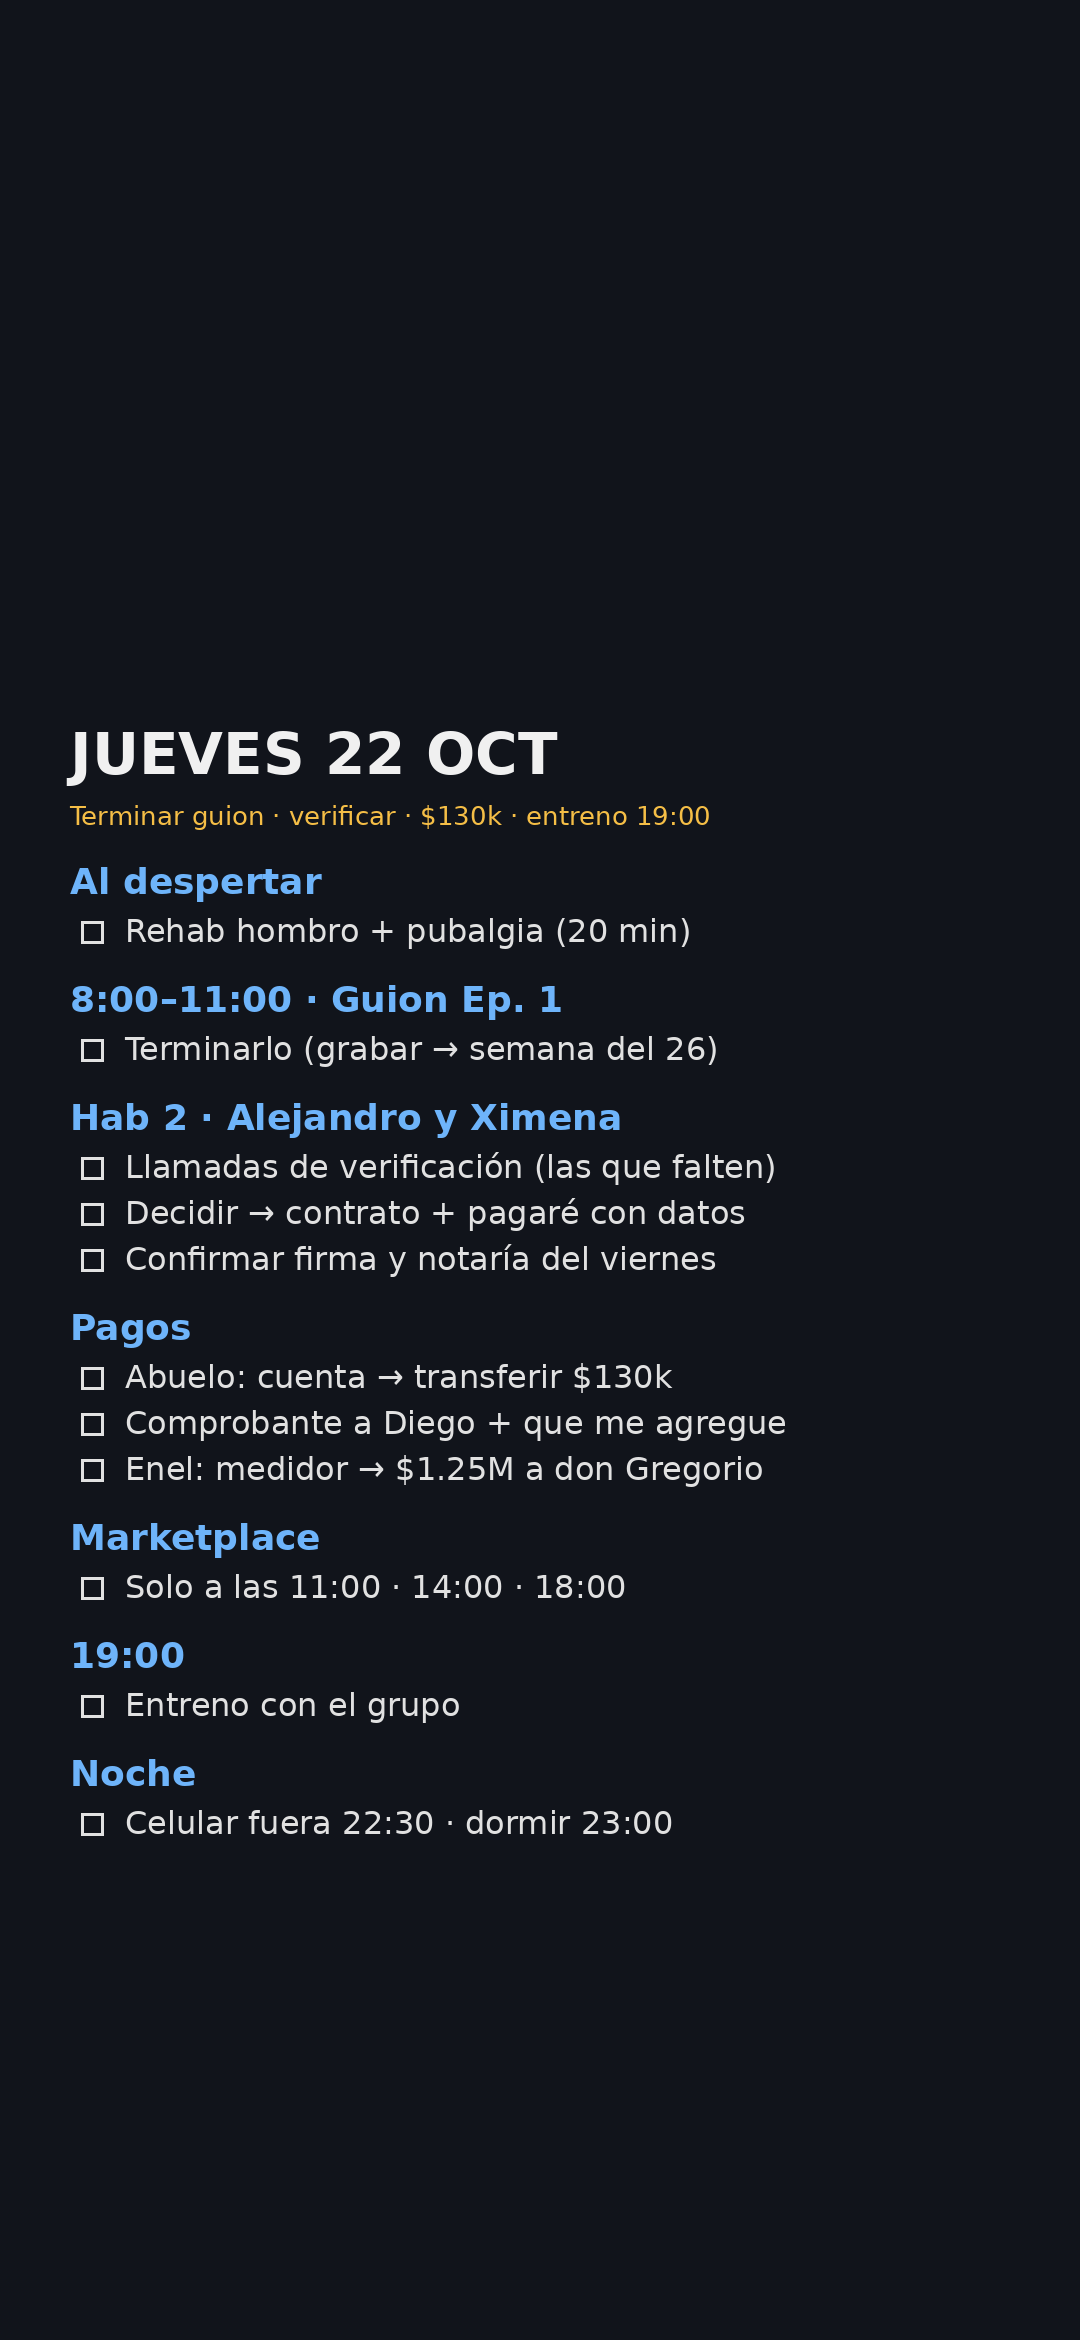
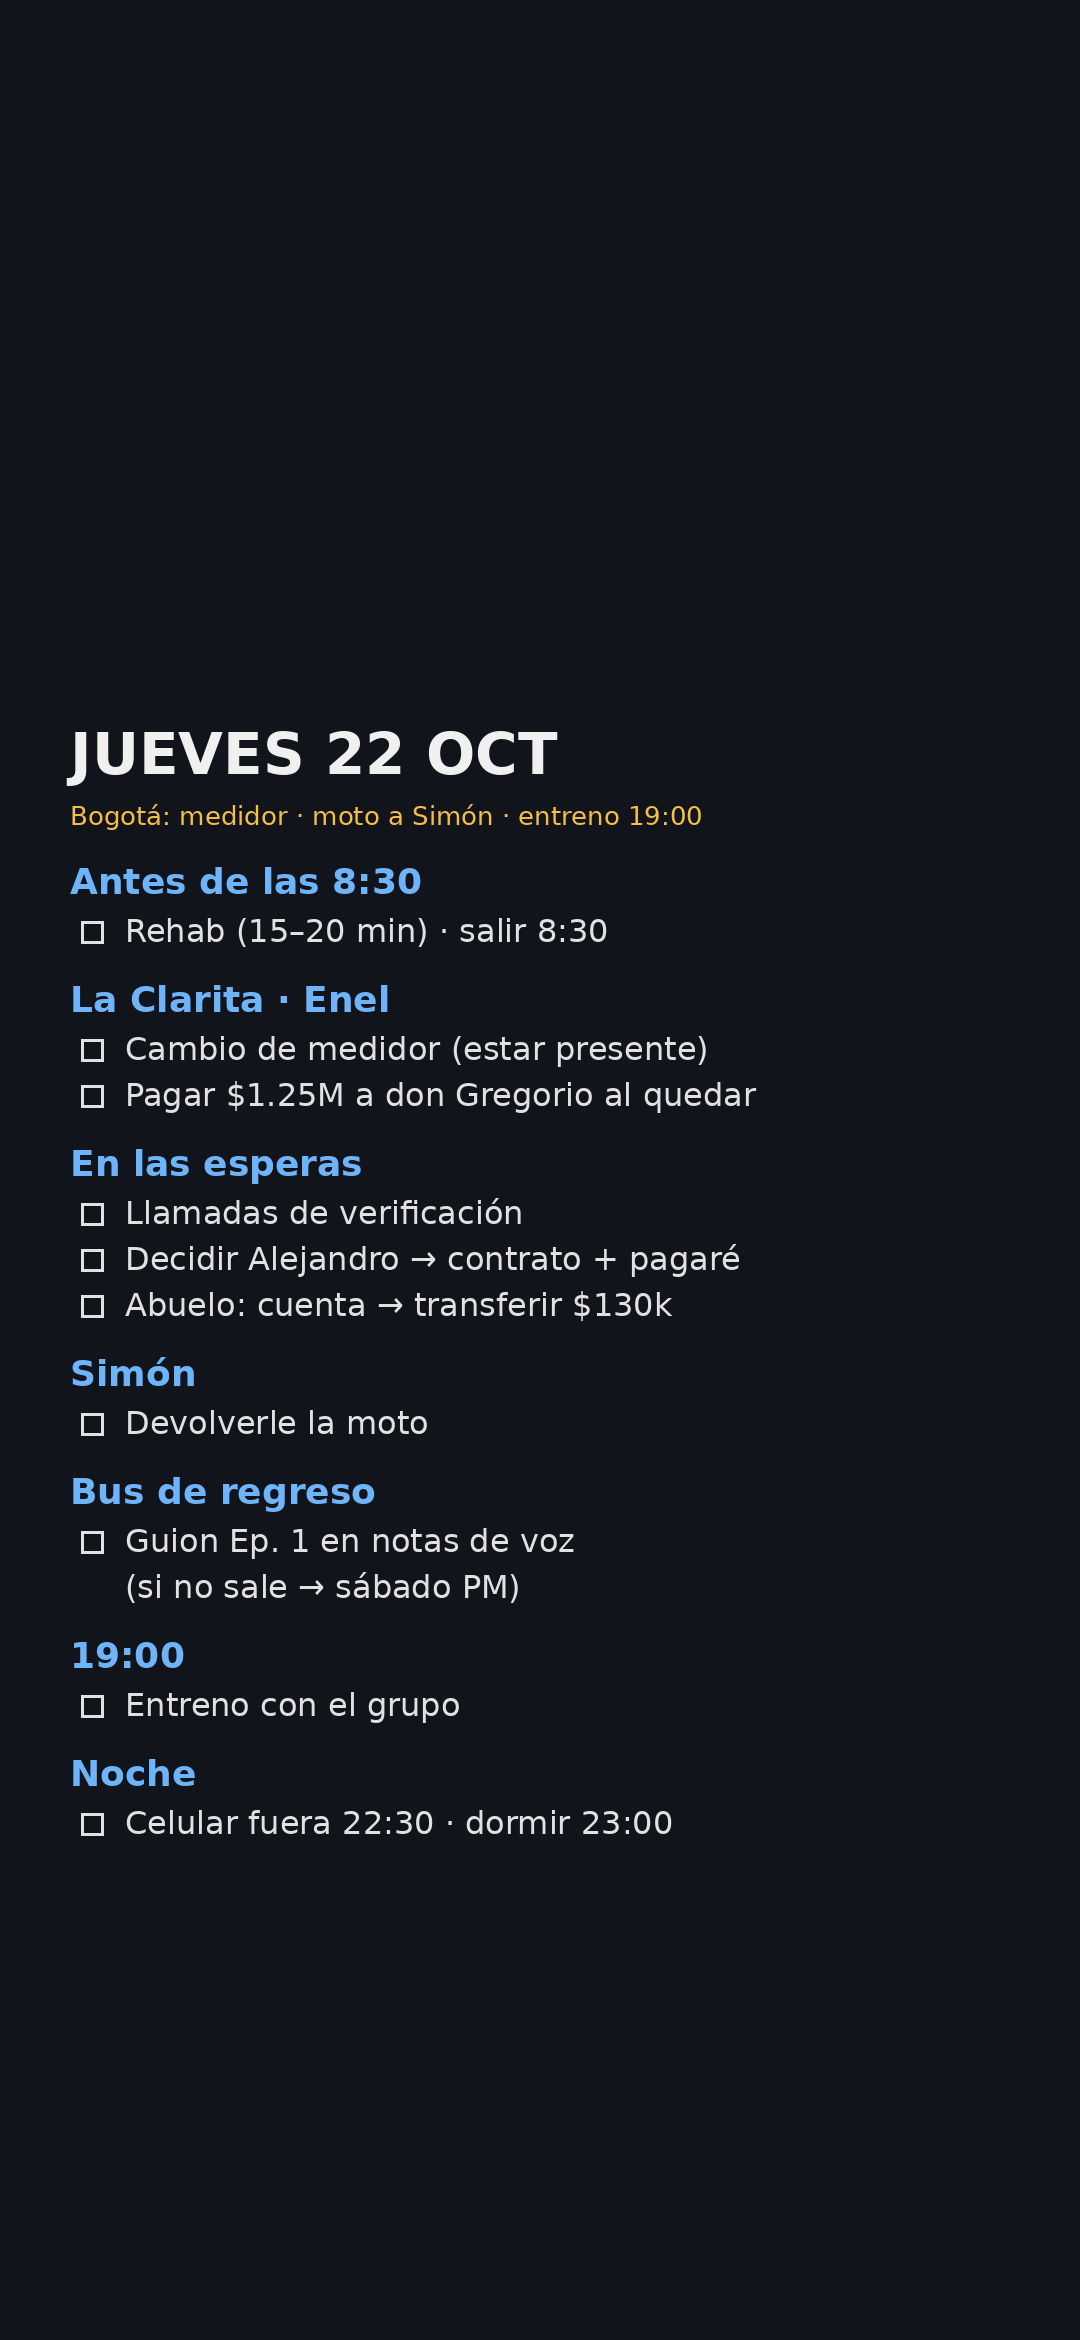
Jue 22: viaje a Bogotá por el medidor, devolver moto a Simón, guion en el bus (pendientes actualizados)
Claude-Session: https://claude.ai/code/session_014e4cEhL2WfTnp7vpF1gbZZ

Changed region(s): [[0.0611, 0.3432, 0.7333, 0.6863], [0.4889, 0.5927, 0.5194, 0.6239]]

diff --git a/vida/estado_actual.md b/vida/estado_actual.md
@@ -206,7 +206,7 @@
 | **Lun 19** (La Clarita → Tenjo) | ~~Lectura~~ ❌ no se hizo → pasa al mar 20 (bus) | Antes de salir: audio balance a Simón · mensajes a Alejandro (codeudor + extractos Bancolombia + referencia del coliving), Diego (agregar al grupo), Juana (2 opciones: mar/jue 7:00 o sáb AM) · ~12:30 La Clarita: armar base cama Hab 2 + fotos nuevas · **13:00 visita Juanita** · salir ≤15:30 · **17:00 fisio** en Tenjo (historial hombro + pubalgia) = check-in Ultimate | — |
 | **Mar 20** (La Clarita → Tenjo) | Lectura: ✅ Hábitos Atómicos cap. 2 y 6 · ❌ cap. 12 y Wood (pasan al mié) · ❌ rehab | ✅ utensilios ML · ❌ cortinas (no estaban) · ✅ pie amigos + tablas en carpintería (vie 23) · ✅ Enel verificó → cambio de medidor jue 22 · ◐ muebles al 1er piso · ✅ candado gas · bomba: técnico mié 21 · ❌ $130k (falta la cuenta del abuelo) · Javier sin firmar (confianza, sin urgencia) · Alejandro: llegaron los documentos de la mamá (revisar mié AM) · Marketplace: sin interesados avanzados | ✅ Entreno
 | **Mié 21** | Rehab 7:00 · **8:00 sesión con Juana** · 9:00–11:30 guion Ep. 1 = primer borrador de la estructura de la charla (20 min antes: cap. 12) → ◐ guion sin terminar | Revisar documentos de la mamá de Alejandro → decidir · pedirle al abuelo la cuenta del conjunto ($130k) · La Clarita: técnico de la bomba · recoger cortinas · seguir bajando muebles | — |
-| **Jue 22** | Rehab · **terminar el guion Ep. 1** (la grabación pasa a la semana del 26) | Llamadas de verificación (Lorna, Eric, Carmiña, Ivonne, Intersago, coliving) → decisión Alejandro · contrato + pagaré Hab 2 con datos y confirmar firma/notaría vie · abuelo: cuenta del conjunto → **transferir $130k** + comprobante a Diego (pendiente desde el mar) · **Enel: cambio de medidor → pagar $1.25M a don Gregorio** | Entreno 19:00 |
+| **Jue 22** (Tenjo → La Clarita → Tenjo) | Rehab · salir 8:30 · guion Ep. 1 en notas de voz en el bus de regreso (si no → sáb PM) | Llamadas de verificación (Lorna, Eric, Carmiña, Ivonne, Intersago, coliving) → decisión Alejandro · contrato + pagaré Hab 2 con datos y confirmar firma/notaría vie · abuelo: cuenta del conjunto → **transferir $130k** + comprobante a Diego (pendiente desde el mar) · **Enel: cambio de medidor → pagar $1.25M a don Gregorio** · devolverle la moto a Simón | Entreno 19:00 |
 | **Vie 23** | Edición Ep. 1 → semana del 26 · 3 min de apertura → semana del 26 | Recoger las tablas del mesón en la carpintería e instalarlas en la Hab 2 · **fotos de la Hab 2** con buena luz y todo organizado (si las tablas llegan tarde → sáb 24 en la mañana) → actualizar el anuncio · firma Hab 2 + notaría del pagaré | Entreno 19:00 |
 | **Sáb 24** | — | **Entrega Hab 2** (inventario + llaves) · al firmar Hab 2 → compra Hab 3 | Holgura |
 | **Dom 25** | **Sesión de finanzas (~2 h):** (1) calendario mensual de pagos y compromisos recurrentes (servicios de La Clarita: agua, gas, luz, internet · tarjetas propias · tarjetas de los abuelos · seguridad social · otros) con fecha o rango de cada uno; (2) reactivar el registro en la app de finanzas (sin registro desde ~jul–ago); (3) cuentas de octubre de La Clarita si no se hicieron antes | — | — |
